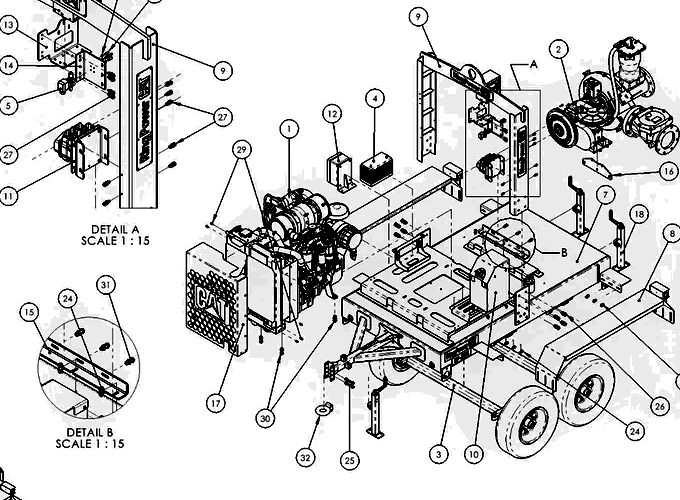
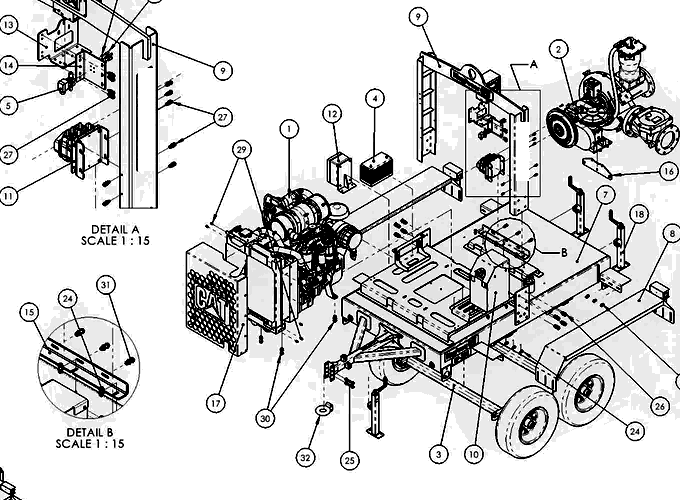
JG-039: blank brand decals on drawings; avoid case-only module name clashes
Per Mark (2026-11-01): remove employer names from drawings. Blanks the
two post decals on the pump assembly and the revision-table strip on the
armament receiver. Renames vault.ts/thread.ts to vaultMath.ts/threadPath.ts:
on case-insensitive file systems './Vault' could resolve to vault.ts.
Phipps quote confirmed by Mark.

Claude-Session: https://claude.ai/code/session_015feZSoV9Fkt2RbGoxeutbY

Changed region(s): [[0.1853, 0.15, 0.2471, 0.33], [0.7412, 0.24, 0.8029, 0.36]]

diff --git a/src/home/Thread.tsx b/src/home/Thread.tsx
@@ -1,6 +1,6 @@
 import { useEffect, useRef } from 'react'
-import type { Anchor, AnchorKind, ThreadSamples } from './thread'
-import { buildThread, catmullRomPath, drawnLength, lengthNearest, makeSamples, pointAtSampled } from './thread'
+import type { Anchor, AnchorKind, ThreadSamples } from './threadPath'
+import { buildThread, catmullRomPath, drawnLength, lengthNearest, makeSamples, pointAtSampled } from './threadPath'
 import './thread.css'
 
 const SVG_NS = 'http://www.w3.org/2000/svg'

diff --git a/src/home/threadPath.test.ts b/src/home/threadPath.test.ts
@@ -1,5 +1,5 @@
 import { describe, expect, it } from 'vitest'
-import type { Anchor, Point } from './thread'
+import type { Anchor, Point } from './threadPath'
 import {
   buildThread,
   catmullRomPath,
@@ -8,7 +8,7 @@ import {
   lengthNearest,
   makeSamples,
   pointAtSampled,
-} from './thread'
+} from './threadPath'
 
 const W = 1440
 const row = (top: number): Anchor => ({ kind: 'row', left: 216, top, width: 1008, height: 140 })

diff --git a/src/home/Vault.tsx b/src/home/Vault.tsx
@@ -16,8 +16,8 @@ import {
   sweepPosition,
   transformCss,
   visibleLayers,
-} from './vault'
-import type { Viewport } from './vault'
+} from './vaultMath'
+import type { Viewport } from './vaultMath'
 import './vault.css'
 
 export interface VaultProps {

diff --git a/src/home/vaultMath.test.ts b/src/home/vaultMath.test.ts
@@ -14,7 +14,7 @@ import {
   sweepPosition,
   transformCss,
   visibleLayers,
-} from './vault'
+} from './vaultMath'
 
 const viewport = { width: 1440, height: 900 }
 const housing = DRAWING_LAYERS.find((layer) => layer.id === 'gearbox-housing')!

diff --git a/docs/HANDOFF-homepage-path-a-2026-11-01.md b/docs/HANDOFF-homepage-path-a-2026-11-01.md
@@ -115,8 +115,8 @@ All copy is already written in `src/home/content.ts` (committed). Change copy th
 | `src/shared/pages.ts` (+ `home` row: index 4, path `/home/`, `fadeIn: true`, `private: true`) + `pages.test.ts`, `pageTopology.test.ts` entry lists | todo | W1 |
 | `scripts/verify-launch-dist.mjs` REQUIRED += `home/index.html` + 6 drawings | todo | W1 |
 | `src/home-main.tsx`, `src/home/HomePage.tsx` (composes `<Vault/> <Thread/> <ContactRope/>`), `src/home/layout.css` | todo | W1 skeleton → W5 |
-| `src/home/vault.ts` (pure transforms) + `Vault.tsx` + `vault.css` + `theme.ts` | todo | W2 |
-| `src/home/thread.ts` (pure path + length search) + `Thread.tsx` + `thread.css` | todo | W3 |
+| `src/home/vaultMath.ts` (pure transforms) + `Vault.tsx` + `vault.css` + `theme.ts` | todo | W2 |
+| `src/home/threadPath.ts` (pure path + length search) + `Thread.tsx` + `thread.css` | todo | W3 |
 | `src/home/rope.ts` (pure Verlet) + `ContactRope.tsx` + `rope.css` | todo | W4 |
 | `src/home/*.test.ts` (pure modules; `content.test.ts` pins copy rules below) | todo | each owner |
 
@@ -139,9 +139,10 @@ shared file: W1 lands the skeleton with stub components first; workers only edit
 
 ## Open items for Mark (do not resolve on his behalf)
 
-1. Confirm the Darrin Phipps quote is his own words and OK to publish.
-2. Employer OK for the two pump/enclosure stand-in drawings (already public on the v2 site, title
-   blocks now cropped) or send redacted replacements.
+1. ~~Confirm the Darrin Phipps quote~~ — Mark OK'd keeping it (2026-11-01).
+2. Employer names: Mark asked (2026-11-01) to remove any employer names from drawings/models. The
+   pump-assembly post decals and the armament revision-table strip were blanked; the CAT engine logo
+   (supplier, not employer) remains.
 3. ITAR/EAR check before armament drawings go live (stand-ins already public on v2).
 4. Send the redacted drawing set (2 per project) to replace the stand-ins.
 5. Reference-site fonts: screenshots, or a cloud environment with those domains allowed.
